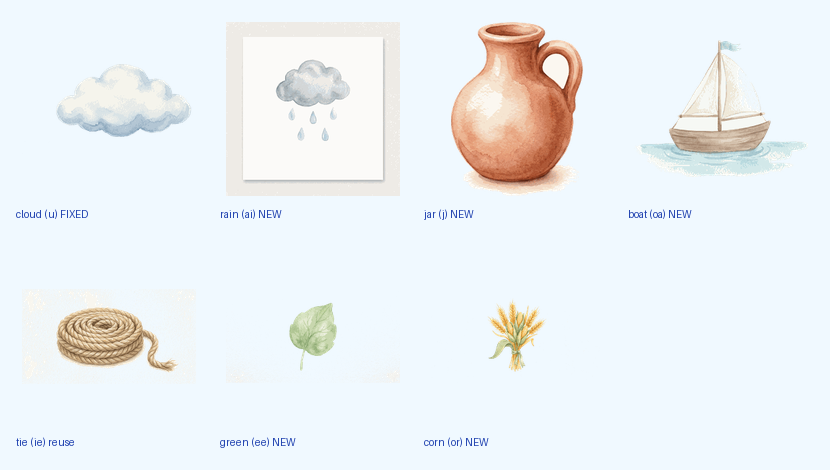
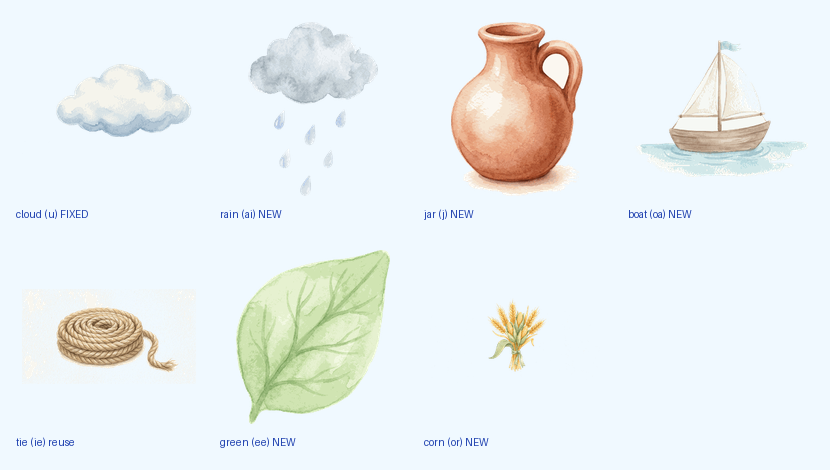
fix(salman): صورة المطر والورقة بلا إطار ورقي (توليد على أبيض مسطّح) + لوح المجموعة 4
- rain.png و leaf.png أُعيد توليدهما بخلفية بيضاء مسطّحة بلا نسيج ورق ولا إطار،
  والقصّ التفاعلي (flood-fill) صار ينظّفهما كاملًا — الفحص على خلفية داكنة يمرّ الآن.
- أُعيد توليد cloud.png (السحابة الباهتة) بتظليل أزرق واضح.
- لوح المعاينة nour-group4-assets.png محدَّث، وميزانية الصور في الوثائق صُحّحت
  إلى القياس الفعلي بالبايت: 22 صورة · 243.7 KB من سقف 1 MB.
- الفحص: 26 ملفًا / 603 اختبارات ✓ · build ✓ · precache:check ✓ (22 صورة · 78 مقطعًا).

Changed region(s): [[0.2711, 0.0298, 0.4819, 0.417], [0.2711, 0.5362, 0.4819, 0.8936]]

diff --git a/docs/salmans-garden/ASSETS.md b/docs/salmans-garden/ASSETS.md
@@ -99,7 +99,7 @@
 
 ## 10. أصول «حدائق النور» — المحطة الأولى (P0–P2)
 
-- **الصور**: `public/salman/art/nour/*.png` — **22 رسمة** شفافة ≤ 256 px بـ96 لونًا (**≈ 237.7 KB** مجتمعة من سقف البرنامج ≤ 1 MB): الطيار 4 + P3 (تمر · ثوب · حبل) + الإنجليزية (شمس · نملة · عش · زيتون · قدر · صخرة · مصباح · سحابة · طوب · باقة · مطر · جرة · قارب · ورقة · سنابل). و**إعادة الاستخدام**: الجمل والبعير في العربية، وسبع كلمات إنجليزية من مكتبة التطبيق القائمة (`animals/camel` · `animals/elephant` · `animals/dog` · `animals/bee` · `badges/tree` · `gifts/flower` · `count/fish`) + `nour/door` للنون… لا نبنِ ما نملكه. لا يُجسَّد نبي ولا صحابي ولا ملك.
+- **الصور**: `public/salman/art/nour/*.png` — **22 رسمة** شفافة ≤ 256 px بـ96 لونًا (**≈ 243.7 KB** مجتمعة من سقف البرنامج ≤ 1 MB): الطيار 4 + P3 (تمر · ثوب · حبل) + الإنجليزية (شمس · نملة · عش · زيتون · قدر · صخرة · مصباح · سحابة · طوب · باقة · مطر · جرة · قارب · ورقة · سنابل). و**إعادة الاستخدام**: الجمل والبعير في العربية، وسبع كلمات إنجليزية من مكتبة التطبيق القائمة (`animals/camel` · `animals/elephant` · `animals/dog` · `animals/bee` · `badges/tree` · `gifts/flower` · `count/fish`) + `nour/door` للنون… لا نبنِ ما نملكه. لا يُجسَّد نبي ولا صحابي ولا ملك.
 - **إعادة التوليد**: `python3 tools/salman-process-nour.py <name> …` من صور `.work/<name>-raw.png` (خارج Git) (يقرأ الخام من `.work/` خارج Git: إزالة البياض من الحواف، قصّ، تصغير، تكميم).
 - **الصوت**: `public/salman/audio/nour/` — **78 مقطعًا، منها 2 بانتظار التسجيل** (قصتا ee وor)، بصوت voice-00 وحده (≈ 12 MB): 18 حرفًا عربيًا (36) · 24 صوتًا إنجليزيًا (48) · الأرقام 1–4 (8) · والراوي نفسه للإنجليزية (`language=en`) فلا صوت ثانٍ.
 - **قاعدة الرايات**: `python3 tools/salman-voice-flags.py` تضبط `voiced` في `src/salman/data/nour.js` من وجود الملفات فعلًا، وتُنسّق الملف؛ فالمقطع غير الموجود يبقى `voiced: false` ويرجع التطبيق إلى صوت المتصفح.

diff --git a/docs/salmans-garden/CONTENT-REVIEW.md b/docs/salmans-garden/CONTENT-REVIEW.md
@@ -141,7 +141,7 @@ npm run build
 | `en-ee-s` | Two Green Gardens | قرآن | الرحمن 55:46 · 55:64 | ✅ | 2026-10-11 | «ولمن خاف مقام ربه جنتان» و«مدهامّتان» (اللون الأخضر الداكن) — مطابقان |
 | `en-or-s` | The King's Dream | قرآن | يوسف 12:43 · 12:47 | ✅ | 2026-10-11 | «سبع سنبلات خضر وأخر يابسات» و«فذروه في سنبله» = "keep it in its ears" — مطابقان، والحلم يُروى بلا تصوير |
 
-**أصول المجموعة 4:** ٦ صور (سحابة أُعيد توليدها بتظليل واضح + مطر · جرة · قارب · ورقة · سنابل) وإعادة استخدام حبل حرف الحاء لـ«tie». المجموع: 22 صورة في nour ≈ 237.7 KB من سقف 1 MB.
+**أصول المجموعة 4:** ٦ صور (سحابة أُعيد توليدها بتظليل واضح + مطر · جرة · قارب · ورقة · سنابل) وإعادة استخدام حبل حرف الحاء لـ«tie». المجموع: 22 صورة في nour ≈ 243.7 KB من سقف 1 MB.
 
 **الجسر:** `en-ie` ← حرف **ج** (الجمل يُربط ويُوكل) · `en-ai` و`en-ee` ← الصوت g (جنّات الله) — صار ١٠ جسور بين الحدائق.
 
